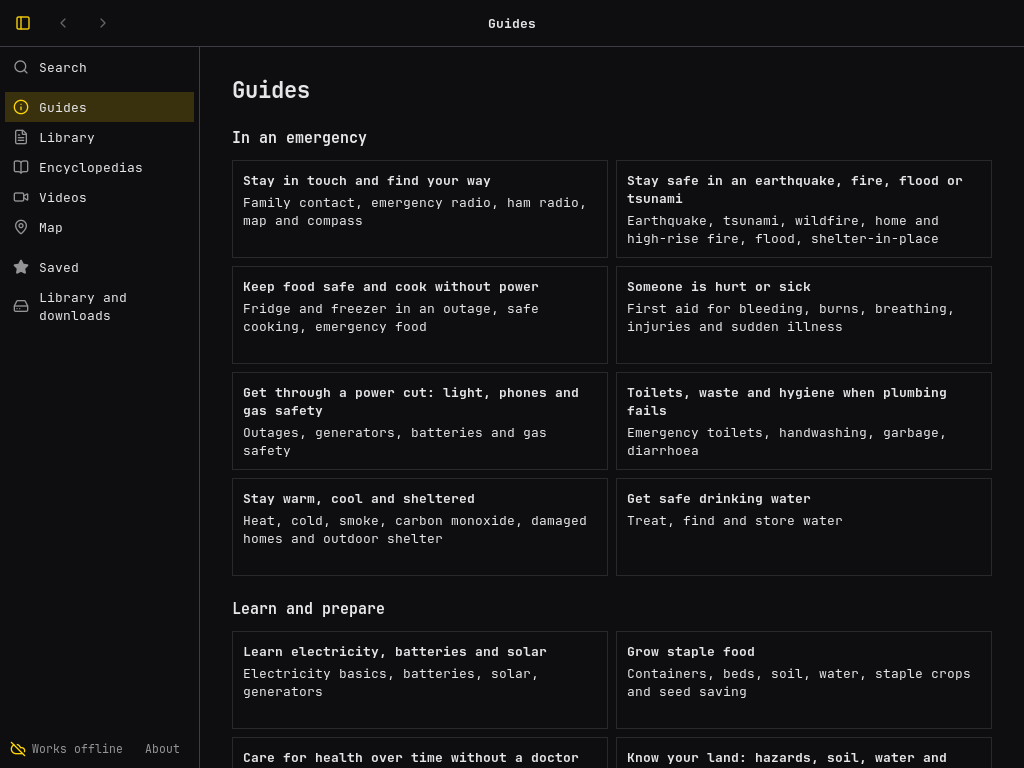
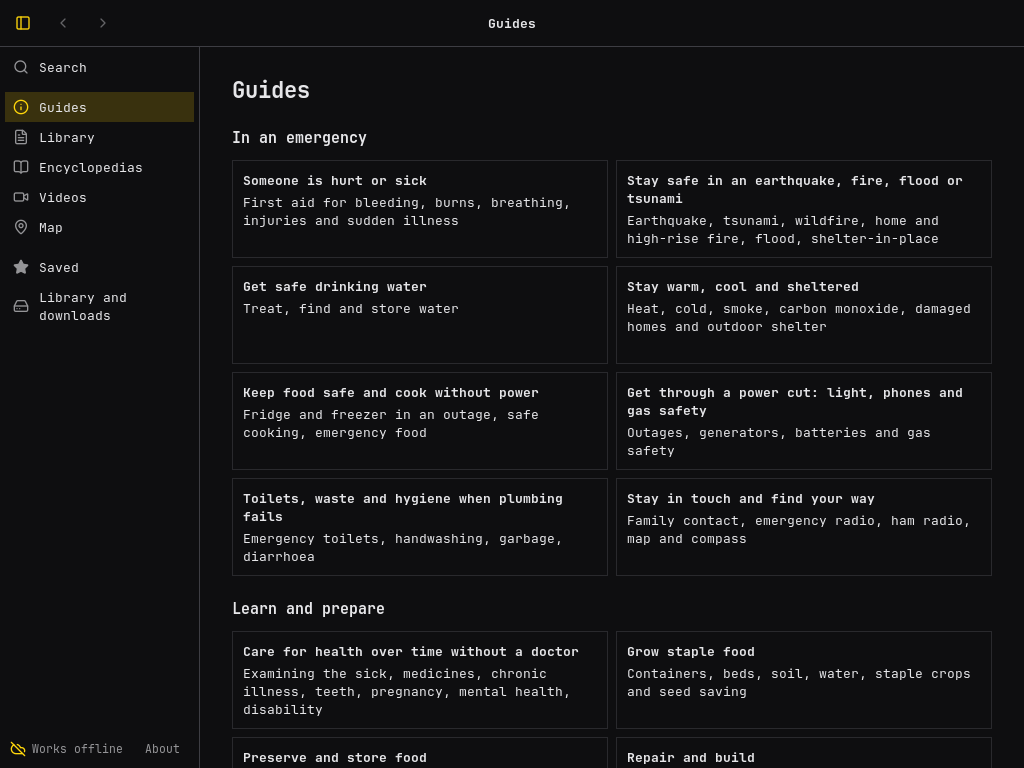
Guides are listed most urgent first

diff --git a/server.py b/server.py
@@ -167,9 +167,15 @@ def clean_title(r):
 
 
 # ------------------------------------------------------------------ topics ----
+# The guides in the order they are listed: the most urgent first, then those to read ahead. One not named here goes last.
+TOPIC_ORDER = ('hurt', 'disaster', 'water', 'shelter', 'food', 'power', 'sanitation', 'comms',
+               'health', 'grow', 'preserve', 'repair', 'energy', 'land')
+
+
 def topics():
     out = []
-    for f in sorted((APP / 'content' / 'topics').glob('*.json')):
+    rank = {name: i for i, name in enumerate(TOPIC_ORDER)}
+    for f in sorted((APP / 'content' / 'topics').glob('*.json'), key=lambda f: (rank.get(f.stem, len(rank)), f.stem)):
         try:
             t = json.loads(f.read_text(encoding='utf-8'))
         except ValueError as e:

diff --git a/packaging/release-notes.md b/packaging/release-notes.md
@@ -3,7 +3,7 @@ Lastbook for Omarchy v1.4.1 makes the map offer the streets it lacks, and rewrit
 - "Nearest help" on a place no street-level map covers now offers to download that region's streets, right in the panel, with progress, pause and resume. The help list appears when the download finishes.
 - The map opens on your newest street-level map rather than the whole world, and "Nearest help" on a whole-world view asks for a town instead of pinning the ocean.
 - The guides read for an international audience: US agencies are explained, reading labels lead with what the page helps with, imperial measures have metric beside them, spelling is British, and search finds "power cut", "torch", "petrol" and "ambulance".
-- The Guides screen's first section is "In an emergency", and four guides have clearer titles.
+- The Guides screen's first section is "In an emergency", its guides are listed most urgent first, and four guides have clearer titles.
 - Setup no longer says the Medium and All libraries include California or US maps, which this version does not install.
 - Error messages are plainer, `lastbook read --pages` with too long a range says so, and the help lists `index --pause`.
 
